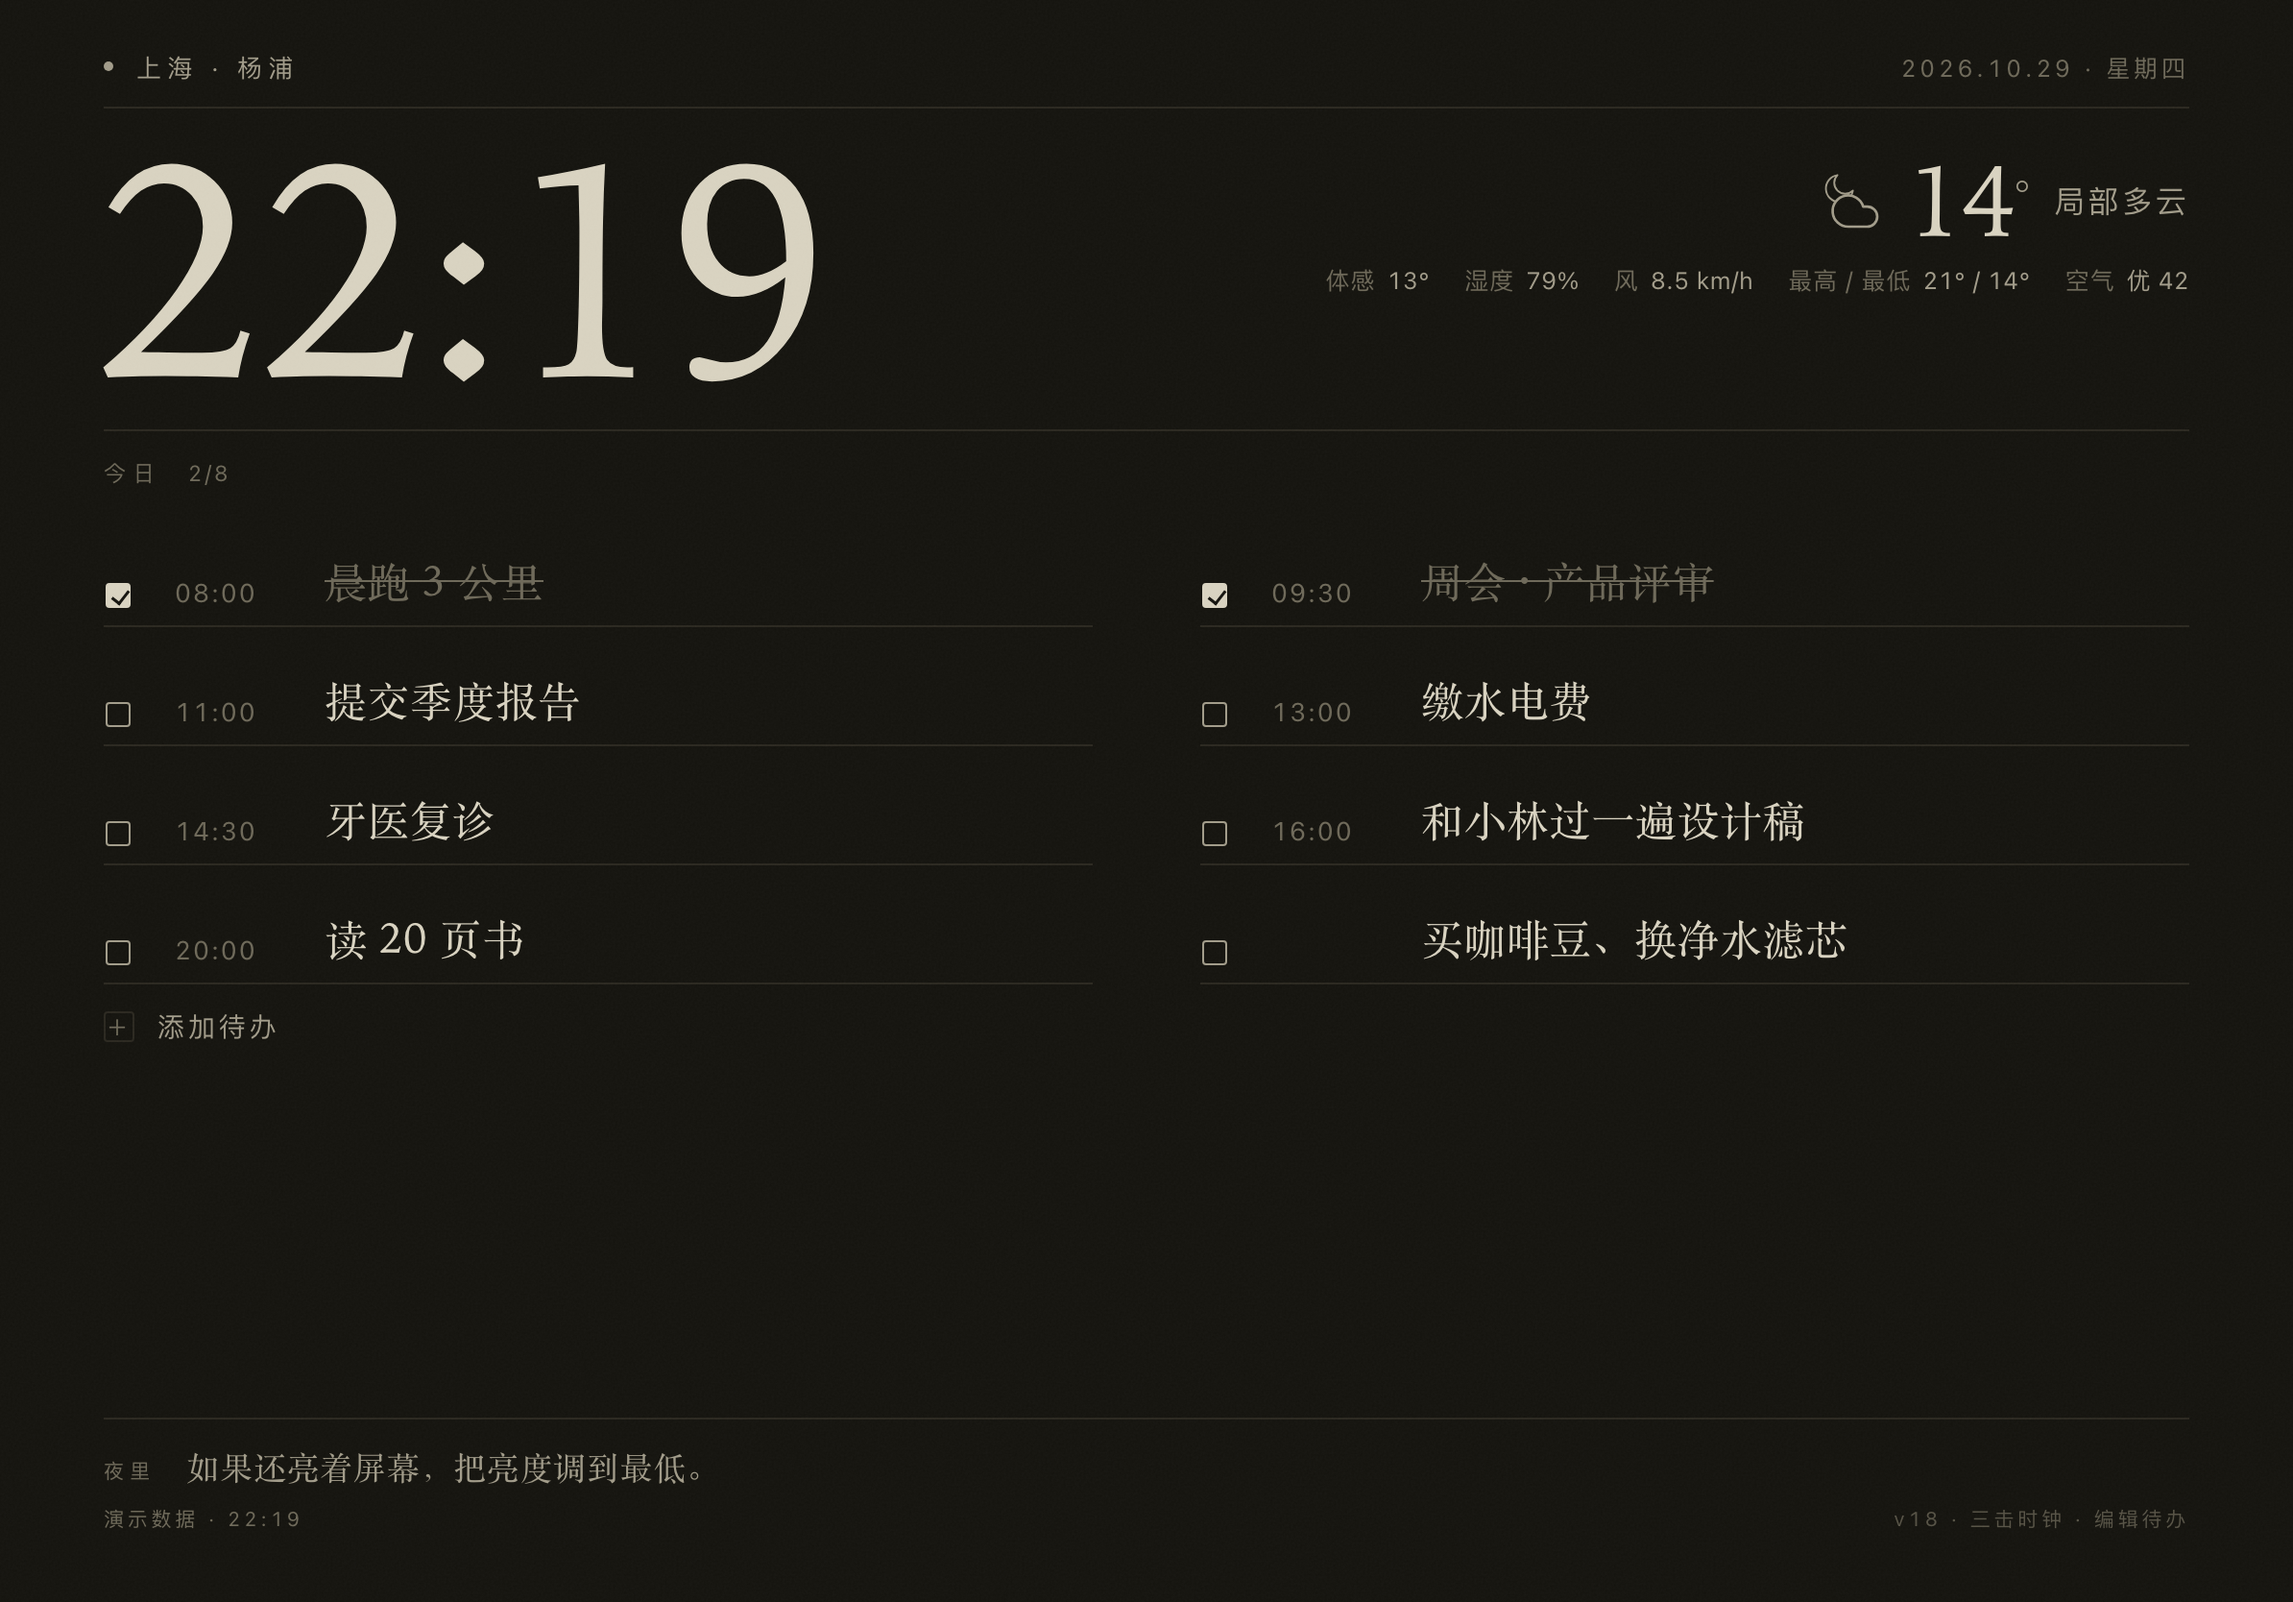
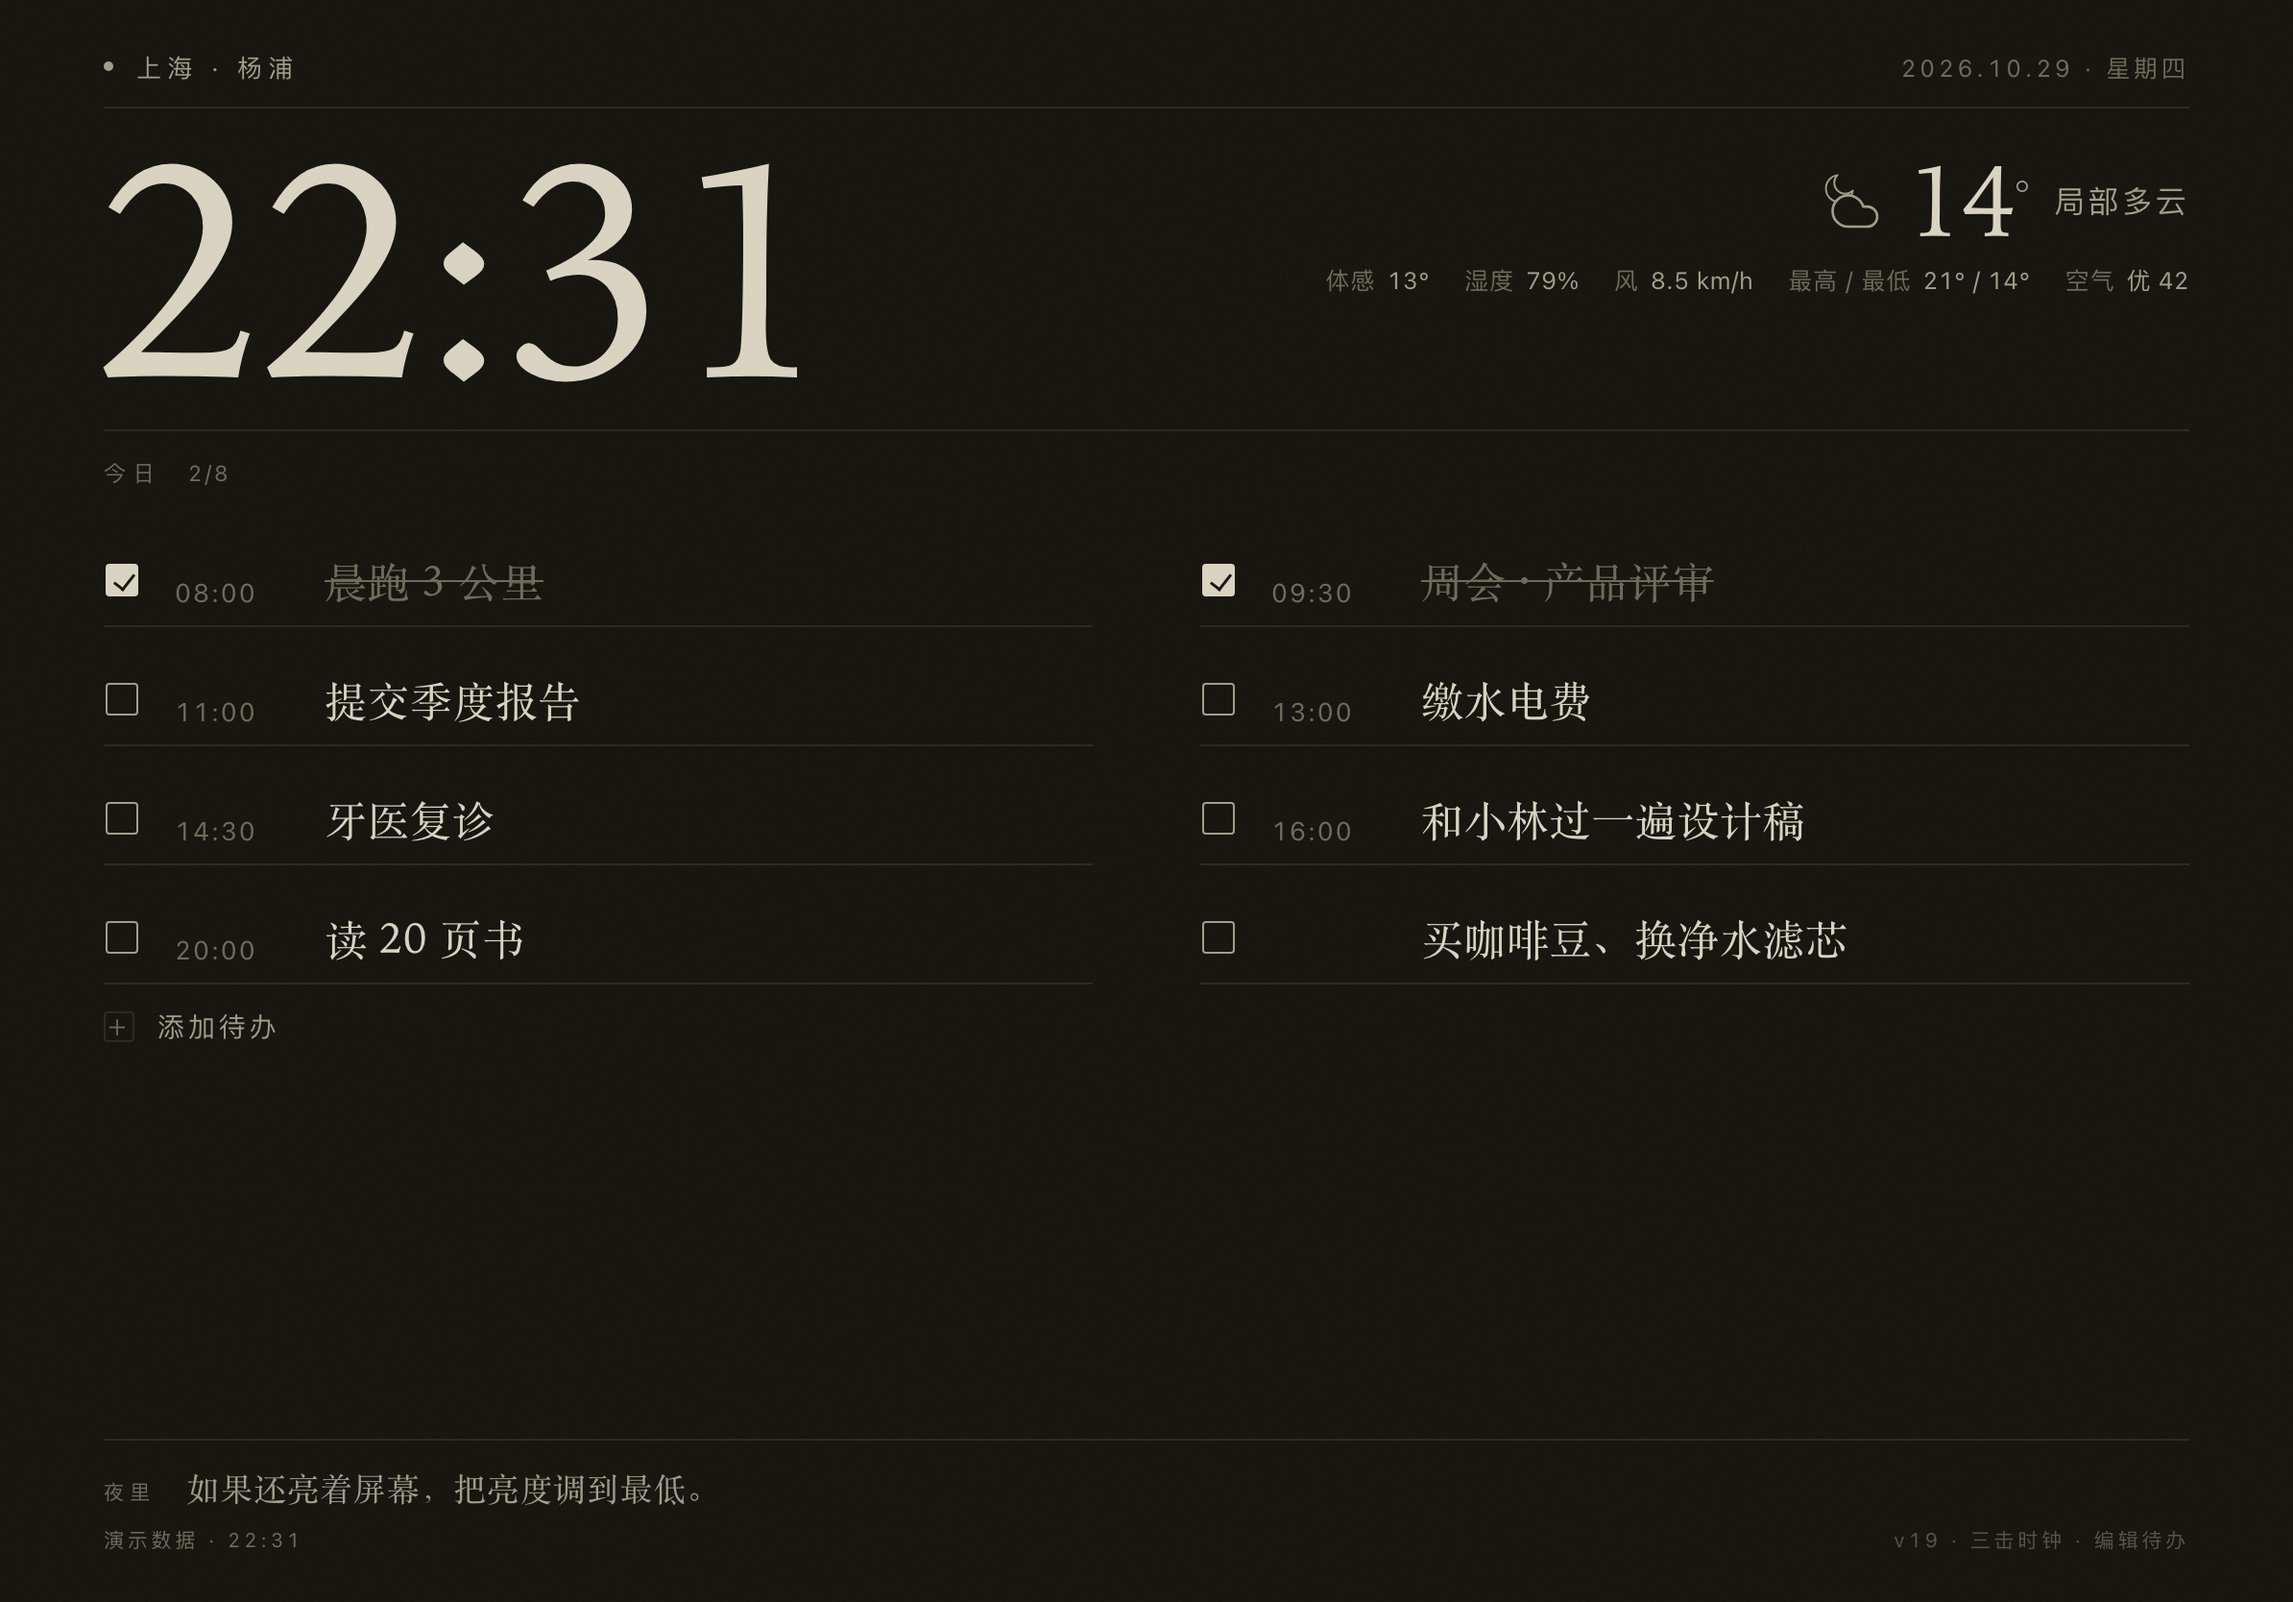
下边距 25px、勾选框加大并对齐文字中线、超过一页自动/手动分页（v19）

diff --git a/index.html b/index.html
@@ -56,7 +56,7 @@
     position:relative;z-index:1;
     height:100%;
     display:flex;flex-direction:column;
-    padding:26px var(--pad-x) calc(36px + env(safe-area-inset-bottom, 0px));
+    padding:26px var(--pad-x) calc(25px + env(safe-area-inset-bottom, 0px));
     transition:transform 1s ease;
   }
 
@@ -122,6 +122,8 @@
   }
   .sec .n{font-variant-numeric:tabular-nums;letter-spacing:.12em}
   #todoHead{cursor:pointer;justify-content:flex-start;gap:14px}
+  #todoPager{margin-left:auto;font-size:11.5px;letter-spacing:.14em;color:var(--muted);font-variant-numeric:tabular-nums}
+  #todoPager.on{cursor:pointer;color:var(--ink-2)}
 
   /* 两列：左右交替（1 2 / 3 4 / 5 6 …） */
   #todoList{
@@ -145,16 +147,17 @@
 
   .box{
     position:relative;top:0;
-    width:13px;height:13px;border:1px solid var(--ink-2);border-radius:2px;
+    width:17px;height:17px;margin-bottom:6px;      /* 抬起来，和文字的中线对齐 */
+    border:1px solid var(--ink-2);border-radius:2px;
     transition:background-color .25s ease,border-color .25s ease;
     cursor:pointer;
   }
   /* 扩大点击热区，但不影响文字区域 */
-  .box::before{content:"";position:absolute;inset:-16px -12px}
+  .box::before{content:"";position:absolute;inset:-13px -10px}
   .todo.done .box{background:var(--ink);border-color:var(--ink)}
   .todo.done .box::after{
-    content:"";position:absolute;left:4px;top:1px;width:4px;height:7.5px;
-    border-right:1.5px solid var(--paper);border-bottom:1.5px solid var(--paper);
+    content:"";position:absolute;left:5.5px;top:2px;width:5px;height:9px;
+    border-right:1.6px solid var(--paper);border-bottom:1.6px solid var(--paper);
     transform:rotate(38deg);
   }
   .todo .tm{
@@ -421,7 +424,7 @@
   </section>
 
   <section id="left">
-    <div class="sec" id="todoHead" role="button" tabindex="0"><span>今日</span><span class="n" id="todoProgress">0/0</span></div>
+    <div class="sec" id="todoHead"><span>今日</span><span class="n" id="todoProgress">0/0</span><span id="todoPager"></span></div>
     <ul id="todoList"></ul>
     <div class="addline" id="addLine" role="button" tabindex="0">
       <span class="plus">＋</span><span>添加待办</span><span class="more" id="addMore"></span>
@@ -541,7 +544,8 @@
       seedFromJson: true,   // 第一次运行时用 todos.json 播一次种，之后完全本地
       dailyArchive: true,   // 每天跨天时把「当天完整清单」存进历史（含没做完的）
       url: "todos.json",    // 也可以点「从 todos.json 导入」手动覆盖
-      maxShow: 12
+      maxShow: 12,          // 每页条数
+      autoPageSeconds: 15   // 多于 1 页时自动翻页的间隔，0 = 不自动
     },
 
     // 健康提示：daily 每天换一条 / rotate 按固定间隔轮换
@@ -695,7 +699,7 @@
     ]
   };
 
-  const BUILD = "v18";   // 改版时 +1，页脚可见，用来确认主屏 App 拿到的是哪一版
+  const BUILD = "v19";   // 改版时 +1，页脚可见，用来确认主屏 App 拿到的是哪一版
 
   const params = new URLSearchParams(location.search);
   const DEMO_MODE = params.has("demo");
@@ -812,6 +816,8 @@
     aqi: null,
     indoor: null,
     todos: [],
+    todoPage: 0,
+    todoPages: 1,
     todosSavedAt: 0,
     history: {},
     todoDay: "",
@@ -1142,8 +1148,11 @@
     const done = list.filter(t => t.done).length;
     $("#todoProgress").textContent = done + "/" + list.length;
 
-    const max = CONFIG.todos.maxShow;
-    const shown = sortItems(list).slice(0, max);
+    const max = CONFIG.todos.maxShow || 12;
+    const sorted = sortItems(list);
+    state.todoPages = Math.max(1, Math.ceil(sorted.length / max));
+    if (state.todoPage >= state.todoPages) state.todoPage = 0;
+    const shown = sorted.slice(state.todoPage * max, state.todoPage * max + max);
 
     $("#todoList").innerHTML = shown.map(t =>
       '<li class="todo' + (t.done ? " done" : "") + '" data-id="' + t.id + '">' +
@@ -1155,9 +1164,25 @@
 
     $("#todoList").style.setProperty("--rows", String(Math.max(1, Math.ceil(shown.length / 2))));
 
-    const rest = list.length - shown.length;
-    $("#addMore").textContent = rest > 0 ? "还有 " + rest + " 项" : "";
+    $("#addMore").textContent = "";
+
+    const pager = $("#todoPager");
+    if (pager) {
+      if (state.todoPages > 1) {
+        pager.textContent = (state.todoPage + 1) + " / " + state.todoPages;
+        pager.classList.add("on");
+      } else {
+        pager.textContent = "";
+        pager.classList.remove("on");
+      }
+    }
     $("#left").classList.toggle("tight", shown.length > 12);
+  }
+
+  function nextPage() {
+    if (state.todoPages <= 1) return;
+    state.todoPage = (state.todoPage + 1) % state.todoPages;
+    renderTodos();
   }
 
   function addTodo(text, time) {
@@ -1429,6 +1454,11 @@
     } catch (err) {
       window.alert("读不到 todos.json。\n如果你是在本地双击打开的，浏览器不允许读同目录文件，属于正常现象。");
     }
+  });
+
+  $("#todoPager").addEventListener("click", e => {
+    e.stopPropagation();
+    nextPage();
   });
 
   // 入口：点「今日」、点「＋ 添加待办」、三击时钟
@@ -1776,6 +1806,12 @@
     loadTodos().then(renderStatus);
 
     setInterval(() => { renderClock(false); renderStatus(); }, 1000);
+
+    if (CONFIG.todos.autoPageSeconds > 0) {
+      setInterval(() => {
+        if (state.todoPages > 1) nextPage();
+      }, CONFIG.todos.autoPageSeconds * 1000);
+    }
     setInterval(loadWeather, Math.max(3, CONFIG.weather.refreshMinutes) * 60000);
     setInterval(loadAqi, Math.max(10, CONFIG.weather.refreshMinutes * 4) * 60000);
     setInterval(loadIndoor, Math.max(2, CONFIG.indoor.refreshMinutes) * 60000);

diff --git a/README.md b/README.md
@@ -121,7 +121,9 @@ location: { name: "上海 · 徐汇", lat: 31.1884, lon: 121.4336, tz: "Asia/Sha
 - **勾**：点方框。板上也能直接勾，不用进面板。
 - **改**：面板里直接点那行字就能改；要改时间就点时间。
 - **删**：点行尾的 ×。
-- **排序**：有时间的按时间先后排在前面，没时间的排后面。板上分两列显示，**左右交替**（1、2 / 3、4 / 5、6……），最多 12 条，多出来的在「添加待办」右边标「还有 N 项」。
+- **排序**：有时间的按时间先后排在前面，没时间的排后面。板上分两列显示，**左右交替**（1、2 / 3、4 / 5、6……），一页 12 条。**超过 12 条自动分页**：每 15 秒翻一页，右上角显示「1 / 2」，点它也能手动翻。
+
+翻页间隔由 `CONFIG.todos.autoPageSeconds` 控制（改成 `0` 就不自动翻）。
 
 数据写在**这台 iPad 的 Safari 本地存储**（`localStorage`）里，断网、锁屏、关掉再打开都还在，不经过任何服务器。
 
